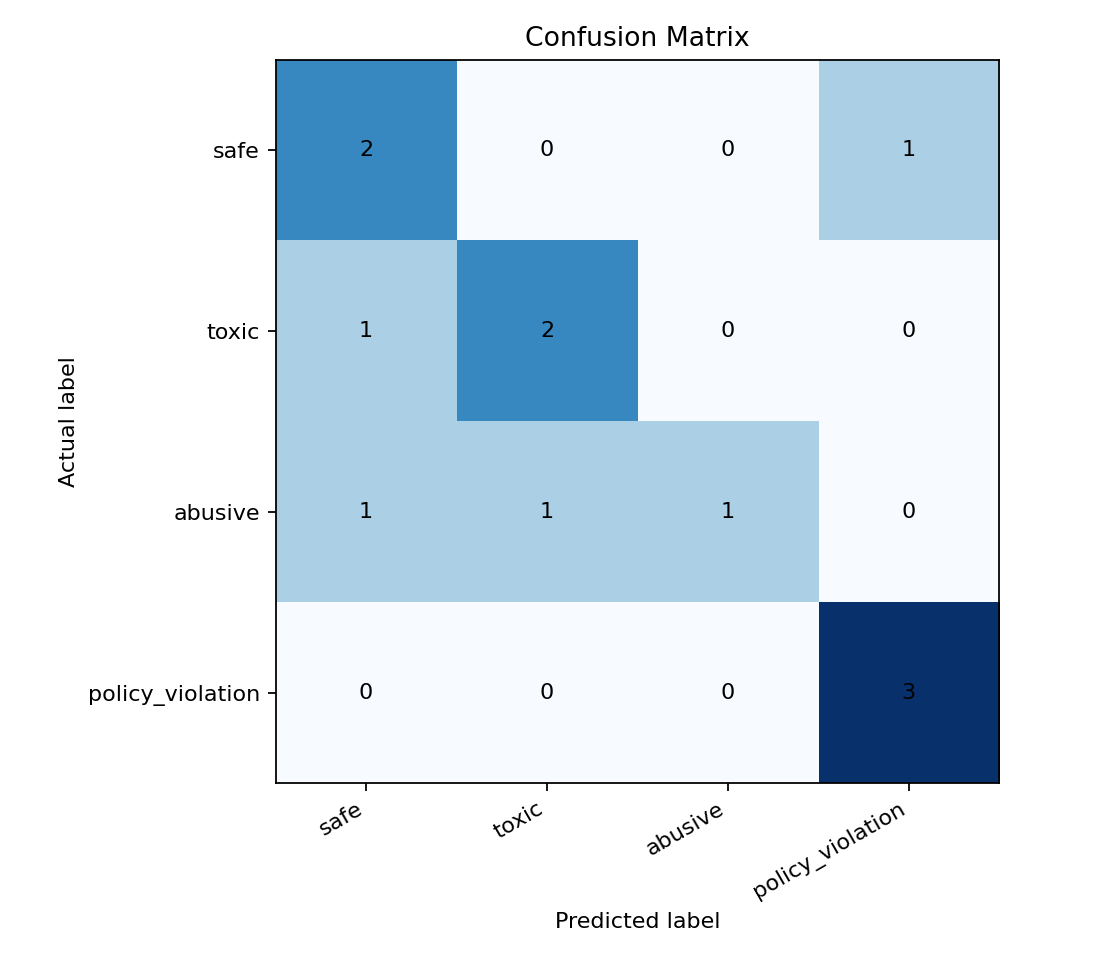
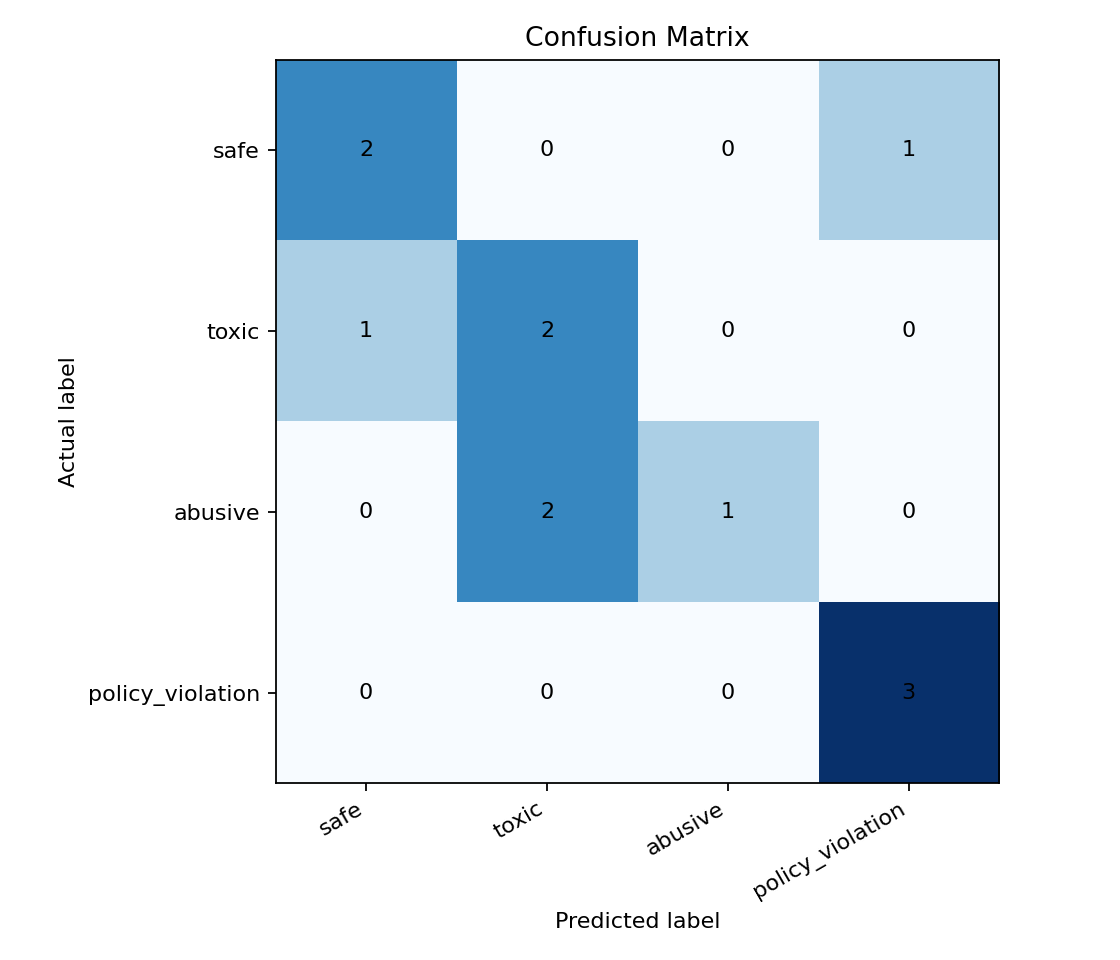
fix

Changed region(s): [[0.25, 0.4375, 0.5938, 0.625]]

diff --git a/src/train_transformer.py b/src/train_transformer.py
@@ -1,6 +1,7 @@
 from __future__ import annotations
 
 import argparse
+import inspect
 import json
 import time
 from pathlib import Path
@@ -99,20 +100,26 @@ def main() -> None:
         }
 
     output_dir = Path(args.output_dir)
-    training_args = TrainingArguments(
-        output_dir=str(output_dir),
-        num_train_epochs=args.epochs,
-        per_device_train_batch_size=args.batch_size,
-        per_device_eval_batch_size=args.batch_size,
-        evaluation_strategy="epoch",
-        save_strategy="epoch",
-        load_best_model_at_end=True,
-        metric_for_best_model="macro_f1",
-        greater_is_better=True,
-        logging_steps=10,
-        seed=args.seed,
-        report_to=[],
+    training_kwargs = {
+        "output_dir": str(output_dir),
+        "num_train_epochs": args.epochs,
+        "per_device_train_batch_size": args.batch_size,
+        "per_device_eval_batch_size": args.batch_size,
+        "save_strategy": "epoch",
+        "load_best_model_at_end": True,
+        "metric_for_best_model": "macro_f1",
+        "greater_is_better": True,
+        "logging_steps": 10,
+        "seed": args.seed,
+        "report_to": [],
+    }
+    strategy_key = (
+        "eval_strategy"
+        if "eval_strategy" in inspect.signature(TrainingArguments.__init__).parameters
+        else "evaluation_strategy"
     )
+    training_kwargs[strategy_key] = "epoch"
+    training_args = TrainingArguments(**training_kwargs)
     trainer = Trainer(
         model=model,
         args=training_args,

diff --git a/src/models/baseline.py b/src/models/baseline.py
@@ -44,7 +44,6 @@ def train_sklearn_baseline(texts: list[str], labels: list[str]) -> Any:
                 LogisticRegression(
                     max_iter=1000,
                     class_weight="balanced",
-                    multi_class="auto",
                     n_jobs=None,
                 ),
             ),
